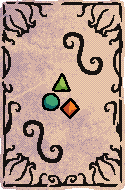
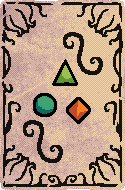
Mox cost choice now offers choice btween 3 colours

diff --git a/InscryptionCommunityPatch/Sequencers/CardCostChoiceNodePatchers.cs b/InscryptionCommunityPatch/Sequencers/CardCostChoiceNodePatchers.cs
@@ -1,5 +1,6 @@
 using DiskCardGame;
 using HarmonyLib;
+using InscryptionAPI.Card;
 using InscryptionAPI.Helpers;
 using System.Collections;
 using UnityEngine;
@@ -19,7 +20,7 @@ internal static class ChoiceNodePatch
                 __result = TextureHelper.GetImageAsTexture("energyCost.png", typeof(ChoiceNodePatch).Assembly);
                 break;
             case ResourceType.Gems:
-                __result = TextureHelper.GetImageAsTexture("moxCost.png", typeof(ChoiceNodePatch).Assembly);
+                __result = TextureHelper.GetImageAsTexture(MoxTextureName(choice.resourceAmount), typeof(ChoiceNodePatch).Assembly);
                 break;
         }
     }
@@ -32,8 +33,9 @@ internal static class ChoiceNodePatch
         if (GetRandomChoosableEnergyCard(randomSeed++) != null)
             __result.Add(new CardChoice() { resourceType = ResourceType.Energy });
 
-        if (GetRandomChoosableMoxCard(randomSeed++) != null)
-            __result.Add(new CardChoice() { resourceType = ResourceType.Gems });
+        int mox = GetRandomMoxTypeIndex(randomSeed++);
+        if (mox > 0)
+            __result.Add(new CardChoice() { resourceType = ResourceType.Gems, resourceAmount = mox });
 
         while (list.Count > 3)
             list.RemoveAt(SeededRandom.Range(0, list.Count, randomSeed++));
@@ -48,12 +50,15 @@ internal static class ChoiceNodePatch
     {
         if (card.ChoiceInfo.resourceType == ResourceType.Energy || card.ChoiceInfo.resourceType == ResourceType.Gems)
         {
-            CardInfo cardInfo = new CardInfo();
+            CardInfo cardInfo = new();
             if (card.ChoiceInfo.resourceType == ResourceType.Energy)
                 cardInfo = GetRandomChoosableEnergyCard(SaveManager.SaveFile.GetCurrentRandomSeed());
 
             if (card.ChoiceInfo.resourceType == ResourceType.Gems)
-                cardInfo = GetRandomChoosableMoxCard(SaveManager.SaveFile.GetCurrentRandomSeed());
+            {
+                GemType gemType = card.ChoiceInfo.resourceAmount switch { 3 => GemType.Blue, 2 => GemType.Orange, _ => GemType.Green };
+                cardInfo = GetRandomChoosableMoxCard(SaveManager.SaveFile.GetCurrentRandomSeed(), gemType);
+            }
 
             card.SetInfo(cardInfo);
             card.SetFaceDown(false, false);
@@ -78,12 +83,33 @@ internal static class ChoiceNodePatch
             return CardLoader.Clone(list[SeededRandom.Range(0, list.Count, randomSeed)]);
     }
 
-    public static CardInfo GetRandomChoosableMoxCard(int randomSeed)
+    public static CardInfo GetRandomChoosableMoxCard(int randomSeed, GemType gem)
     {
-        List<CardInfo> list = CardLoader.GetUnlockedCards(CardMetaCategory.ChoiceNode, CardTemple.Nature).FindAll((CardInfo x) => x.gemsCost.Count > 0);
+        List<CardInfo> list = CardLoader.GetUnlockedCards(CardMetaCategory.ChoiceNode, CardTemple.Nature).FindAll((CardInfo x) => x.gemsCost.Count > 0 && x.gemsCost.Contains(gem));
         if (list.Count == 0)
             return null;
         else
             return CardLoader.Clone(list[SeededRandom.Range(0, list.Count, randomSeed)]);
+    }
+    public static int GetRandomMoxTypeIndex(int randomSeed)
+    {
+        List<CardInfo> list = CardLoader.GetUnlockedCards(CardMetaCategory.ChoiceNode, CardTemple.Nature).FindAll((CardInfo x) => x.gemsCost.Count > 0);
+
+        if (list.Count == 0)
+            return 0;
+        
+        List<int> moxIndeces = new();
+        if (list.Exists(x => x.gemsCost.Contains(GemType.Green)))
+            moxIndeces.Add(1);
+        if (list.Exists(x => x.gemsCost.Contains(GemType.Orange)))
+            moxIndeces.Add(2);
+        if (list.Exists(x => x.gemsCost.Contains(GemType.Blue)))
+            moxIndeces.Add(3);
+
+        return moxIndeces[SeededRandom.Range(0, moxIndeces.Count, randomSeed)];
+    }
+    public static string MoxTextureName(int amount)
+    {
+        return "moxCost" + (amount switch { 1 => "Green", 2 => "Orange", 3 => "Blue", _ => "" }) + ".png";
     }
 }
